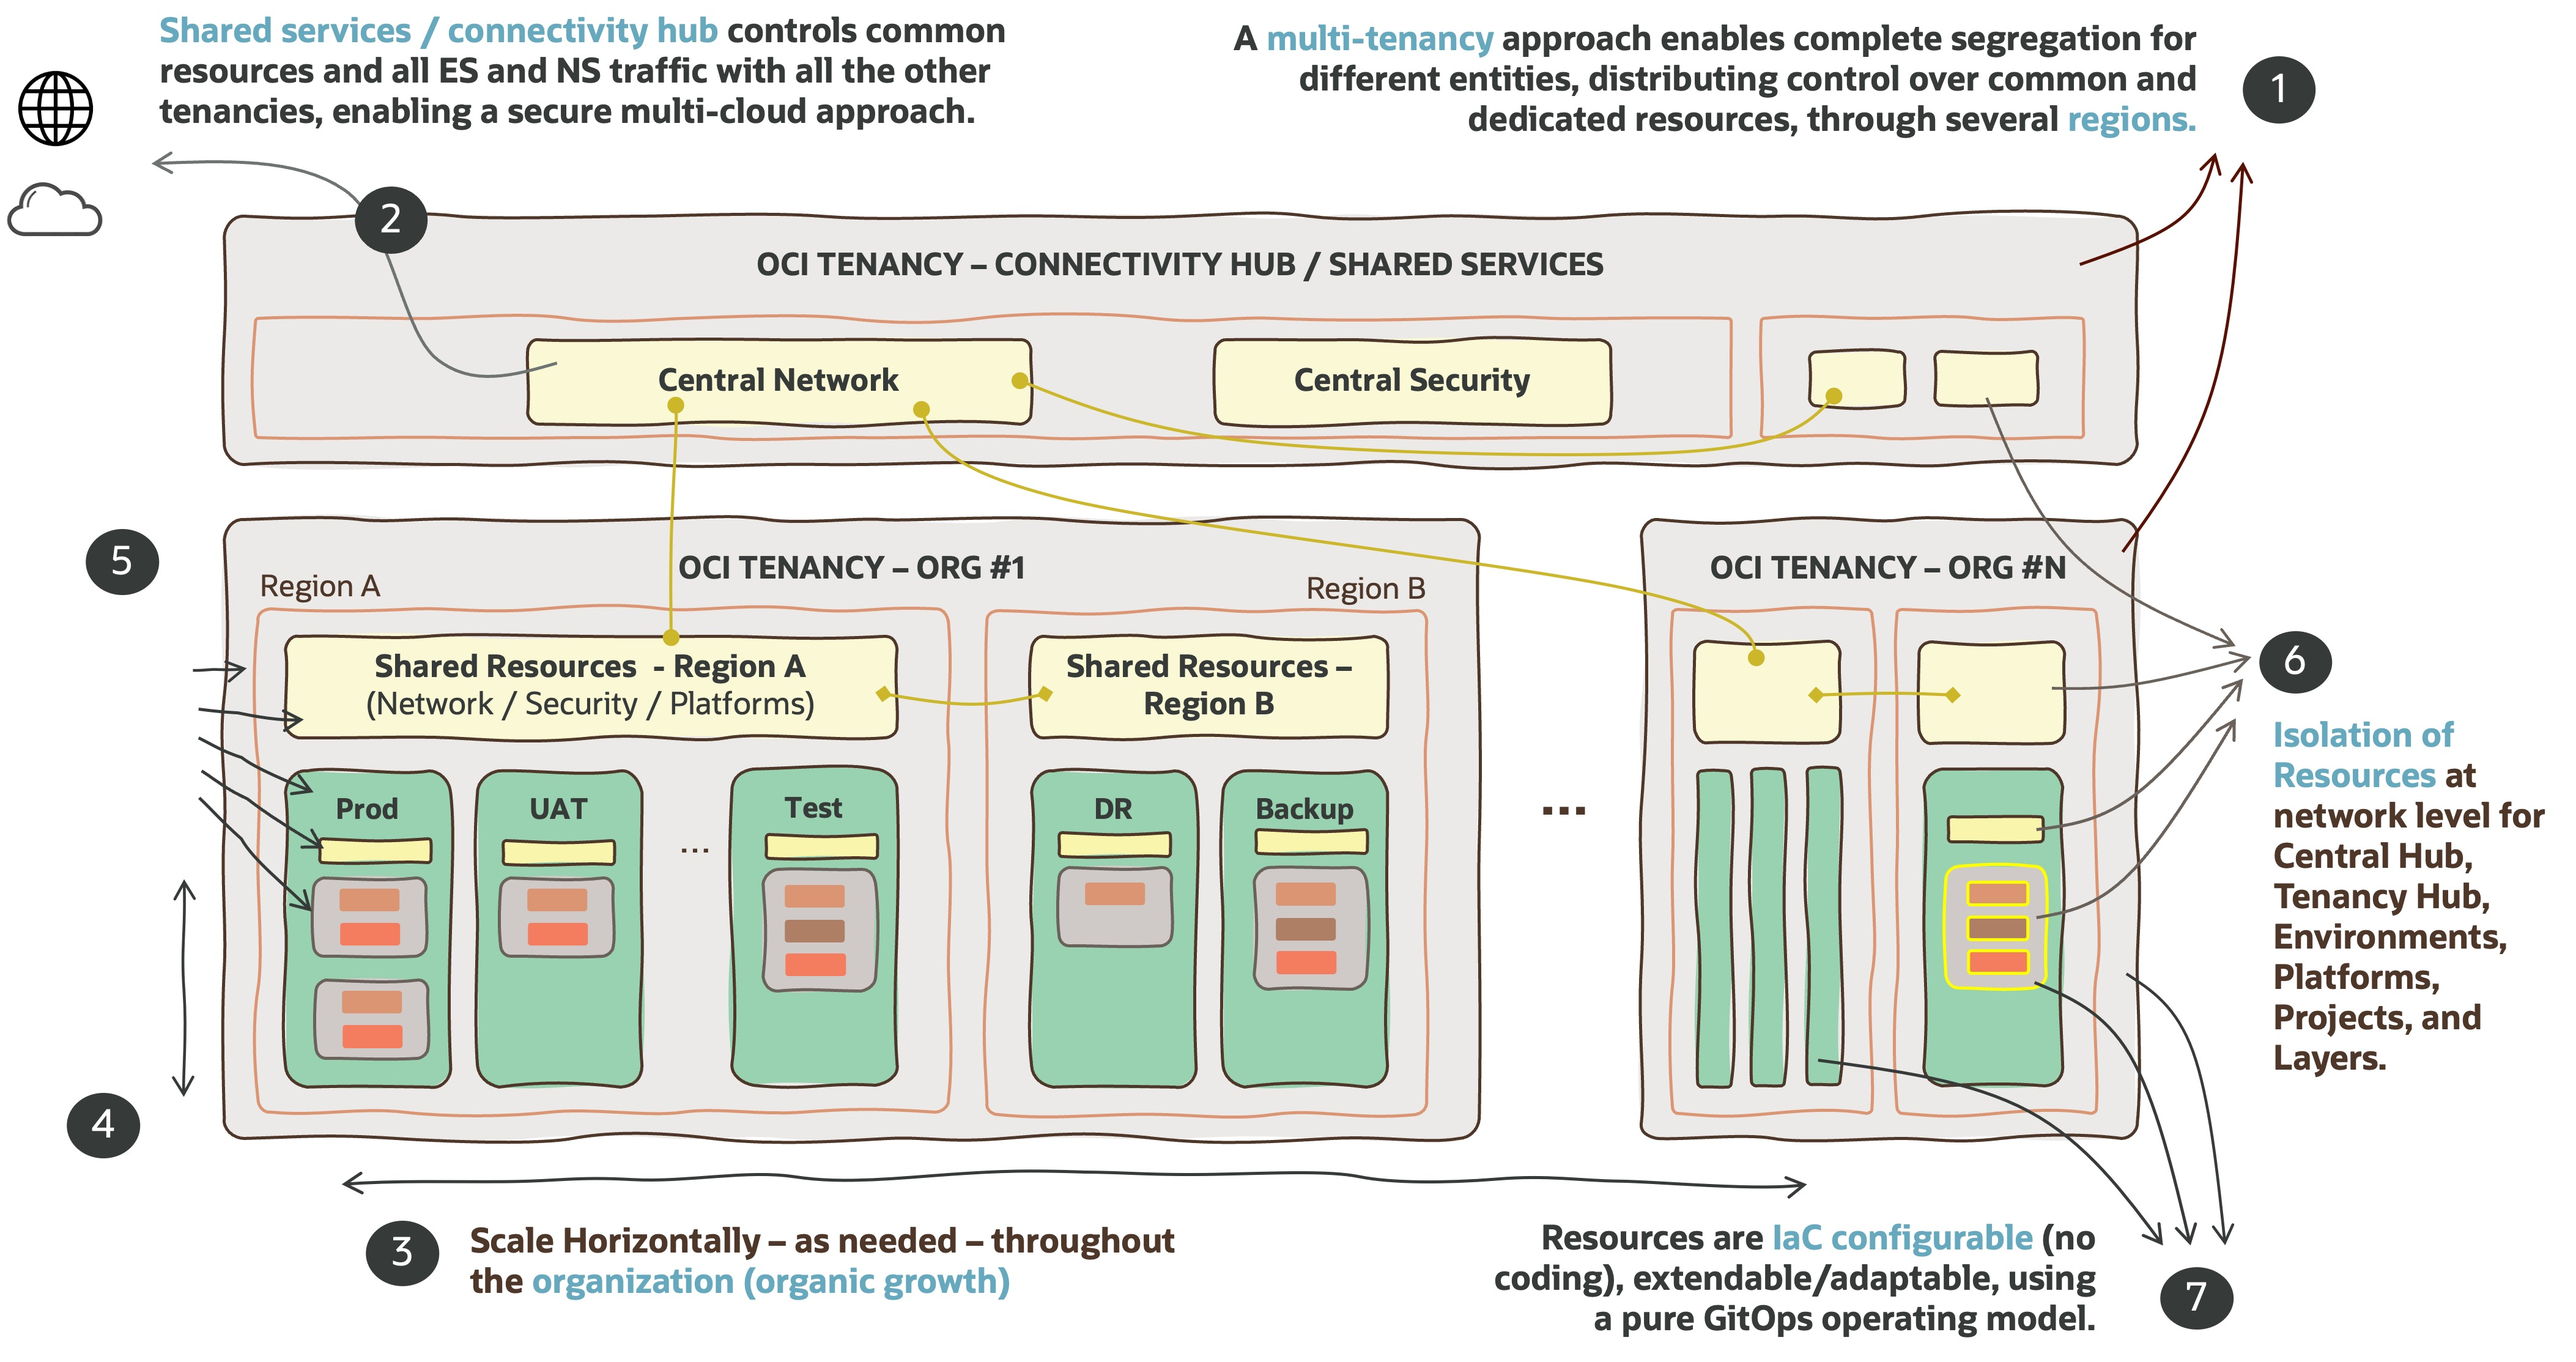
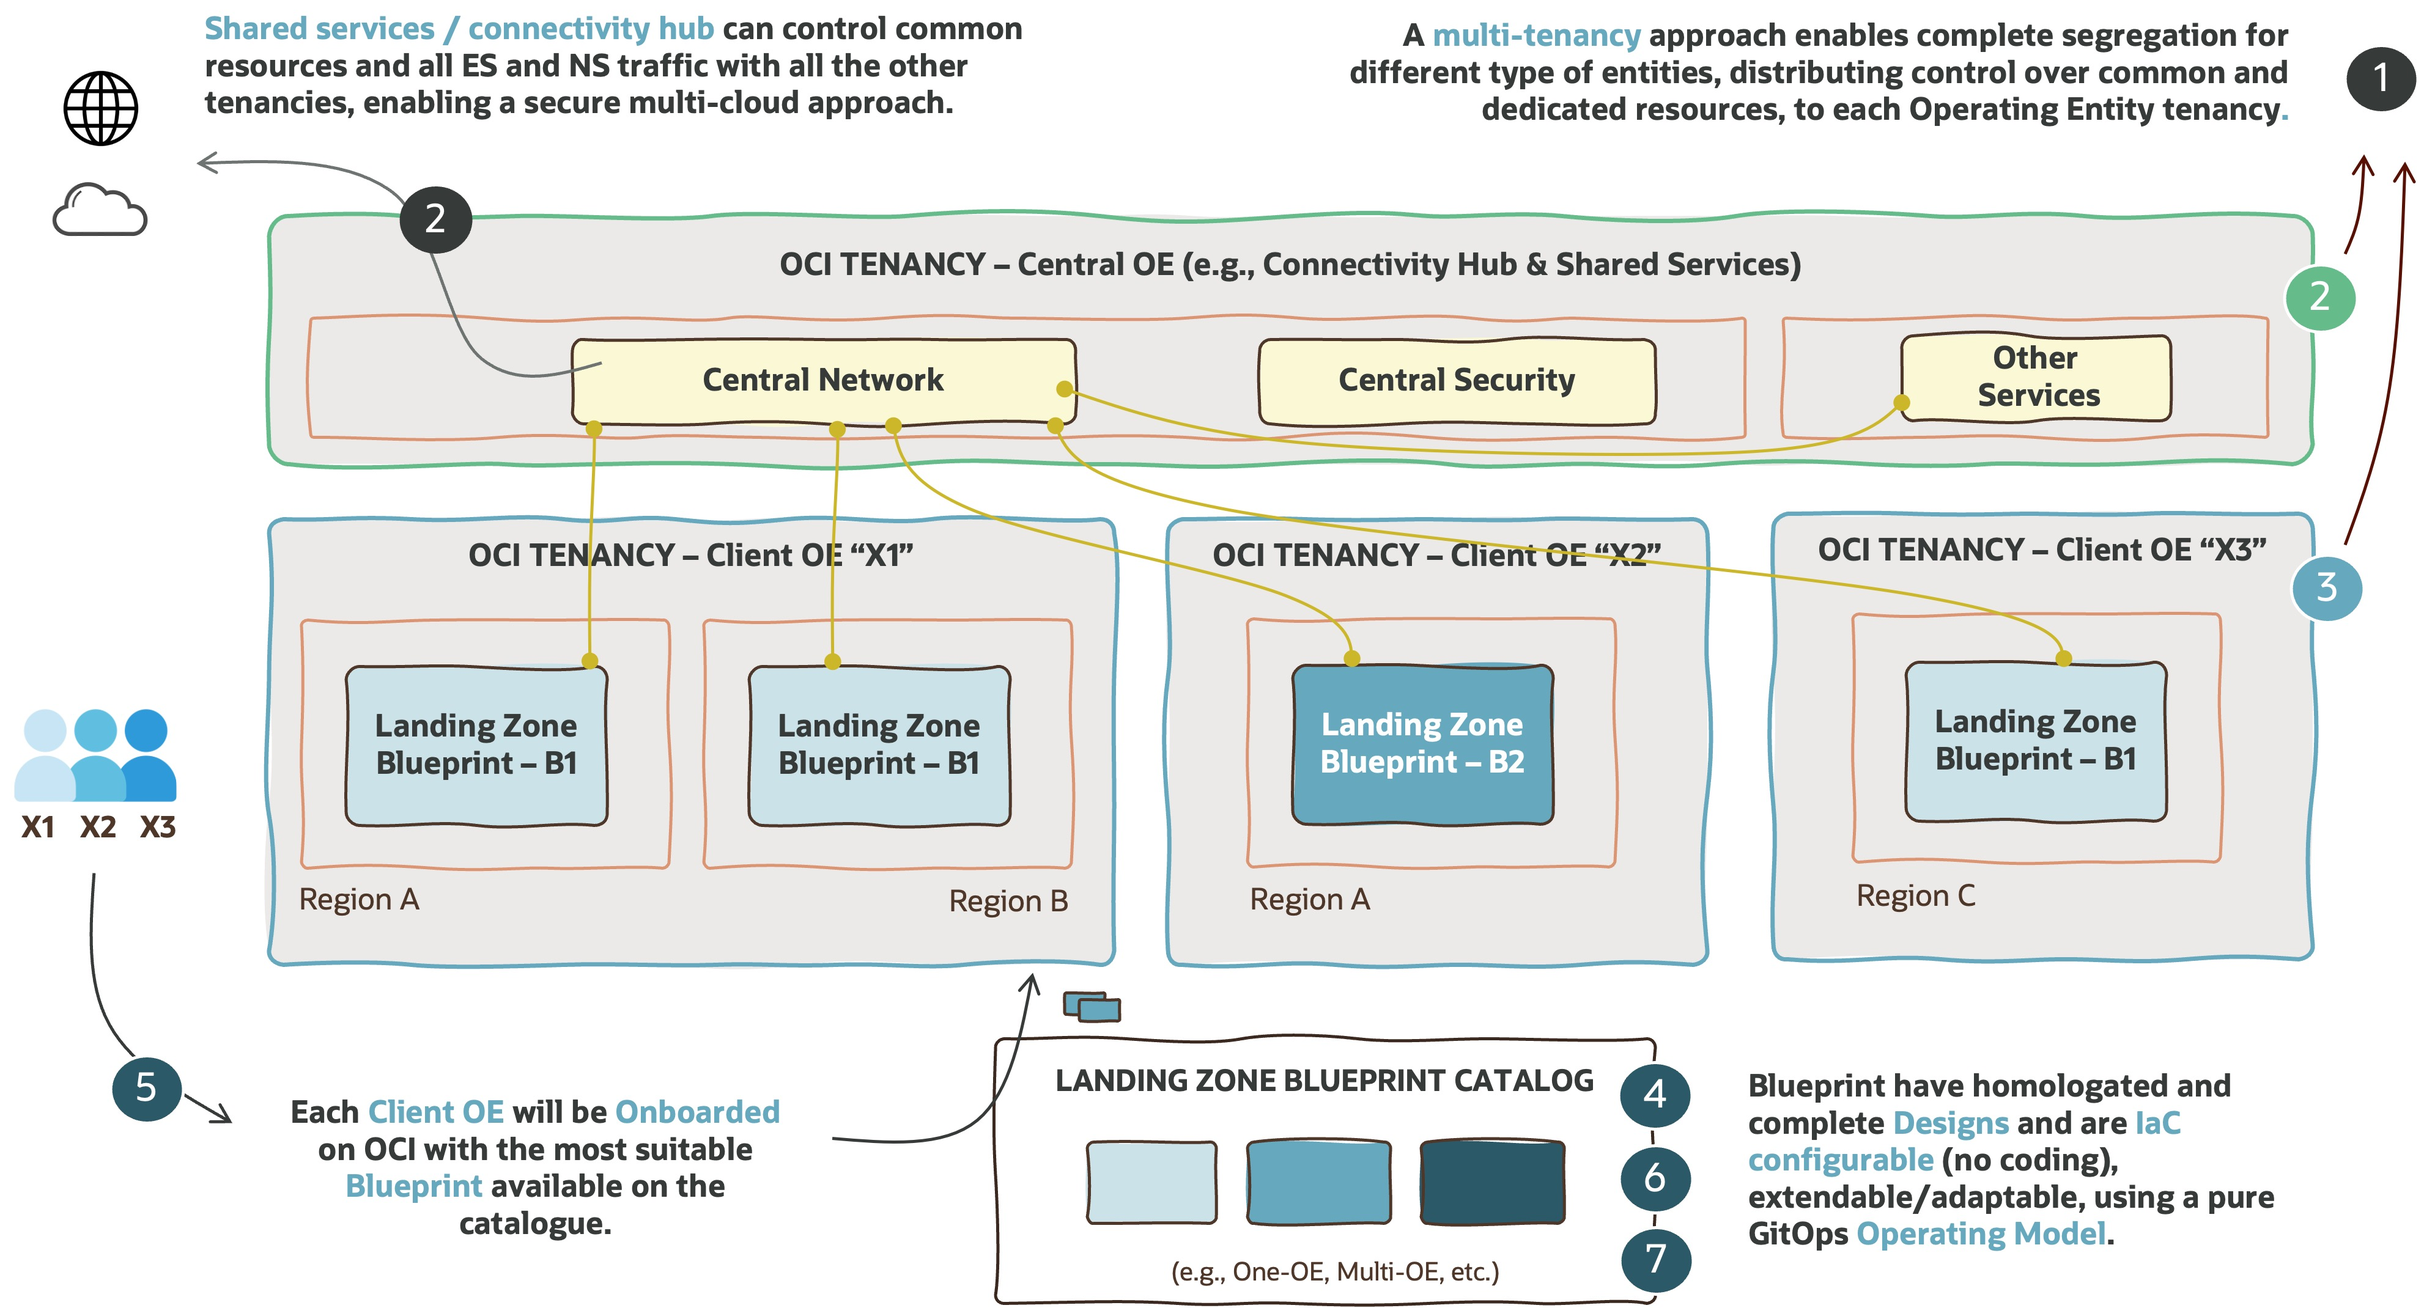
draft md update

diff --git a/blueprints/multi-tenancy/design/readme.md b/blueprints/multi-tenancy/design/readme.md
@@ -1,6 +1,6 @@
 # **The OCI Open LZ &ndash; Multi-Tenancy [Blueprint](#)**
 
-### A Blueprint to Simplify the Onboarding of Organizations, Business Units, and Subsidiaries into OCI
+### A Blueprint to Simplify the Onboarding of All Your Organizations, Business Units, and Subsidiaries into OCI
 
 &nbsp; 
 
@@ -47,16 +47,17 @@ The OCI Multi-Tenancy Landing Zone, is a secure cloud environment, designed with
 
 &nbsp; 
 
+&nbsp; 
+
 | # | CHARACTERISTICS| DESCRIPTION   | 
 |---|---|---|
-| 1 | **Two Entity Types** | There are two types of entities in this blueprint, the ones that provide central shared services to their customers and the customers themselves. The former is a Central Operating Entity (OE) and the latter are organization, customers, or partners OEs.
-| 2 | **Central Operating Entity**| This type of entity provides central shared services to all OEs customers and their tenancies. The Connectivity Hub (CH) is an example of this type of services, where all OEs can be connected to the CH, which will control network traffic in and out of OCI.
-| 3 | **Customer Operating Entities**| An Operating Entities is responsible for the operation of their Tenancy. Note that a customer in this case can be seen as a organization, brand, partner, LoB, Departments, etc. It's teams, and even their possible OE "customers" with their workloads, will be deplopyed and run in a standard and homologated landing zone blueprint.
-| 4 | **Blueprints Catalog** | This element provides a pre-defined set of Landing Zones Blueprints. Each OE can choose the most suitable blueprint available on a catalog of standard blueprints. In this case the One-OE or Multi-OE Blueprints are used, but on a customer scenario these options can be adjusted to any other Landing Zone blueprints. It is recommented that all tenancies follow a blueprint standard, but there might be some cases described below where this can be difficult to enforce.
-| 5 | **Tenancy Types** | There will be available several tenancy types for each Blueprint, such as centrally connected, unconnected, managed or unmanaged, which are flavours of blueprints in terms of security, network, and operations. At onboarding type, each Customer OE has to choose the Landing Zone Blueprint and its Tenancy Type.
-| 6 | **Secure Onboarding** | .
-| 7 | **Cloud Native Operating Model** | The Landing Zone blueprint can be operated with a complete GitOps operating model on day two, using control version repositories as the single source of truth for operations and code. The OCI Open LZ uses a 100% declarative Infrastructure as Code (IaC) approach, with IaC configurations on git-versioned repositories.
-| 8 | **Automation Patterns** | The Landing Zone blueprint has a set of operations scenarios for provisioning and changing resources, providing the building blocks to design and automate any other repeatable operations.
+| 1 | **Two Operating Entity Types** | There are two types of entities in this blueprint, the ones that provide central shared services to their clients and the clients themselves. The former is a Central Operating Entity (OE) which is nornally part of a central IT responsibility, while  the latter are organization, LoBs, brands, products, or partners teams that will use OCI with their tenancies.
+| 2 | **Central Operating Entity** | This type of entity provides central shared services to all OEs customers and their tenancies. A central OE is normally a central team that controls and governs the OCI Multi-Tenancy. Examples of these services can be the Connectivity Hub (CH), where all OEs tenancies can be connected to the CH, which will control network traffic in and out of OCI.
+| 3 | **Client Operating Entities**|  A client OE can be seen as a organization, brand, partner, LoB, Departments, etc. that will use OCI in the customer organization. Each Client OE will have its dedicated tenancy. Their teams, and even their possible internal "customers" with their workloads, will be onboard and run OCI in a standard and homologated landing zone blueprint.
+| 4 | **Blueprints Catalog** | This element provides a pre-defined and homologated set of Landing Zones Blueprints. Each Client OE can choose the most suitable blueprint available on a catalog of standard blueprints. In the Multi-Tenancy Blueprint the One-OE or Multi-OE Blueprints are used, but on a customer scenario these options can be adjusted to any other Landing Zone Blueprints. It is recommented that all tenancies follow a blueprint standard, to reduce governance and operational cost, and avoid unsecured tenancies that can pose a treath to the Multi-Tenancy construct. 
+| 5 | **Secure Onboarding** | This blueprint proposes a high-level workflow to guide the secure onboarding of each Client OE into OCI, from the tenancy activation to the landing zone creation.
+| 6 | **Cloud Native Operating Model** | The Landing Zone blueprint can be operated with a complete GitOps operating model on day two, using control version repositories as the single source of truth for operations and code. The OCI Open LZ uses a 100% declarative Infrastructure as Code (IaC) approach, with IaC configurations on git-versioned repositories.
+| 7 | **Automation Patterns** | The Landing Zone blueprint has a set of operations scenarios for provisioning and changing resources, providing the building blocks to design and automate any other repeatable operations.
 
 &nbsp; 
 
@@ -83,7 +84,26 @@ Before proceeding, it’s highly recommended OCI foundational knowledge of its c
 
 # **2. Functional View**
 
-This chapter will be added soon.
+## 2.1 User Stories
+
+&nbsp; 
+
+## 2.2 Blueprint Catalogue
+
+
+ **Tenancy Types**: As part of the Blueprints Catalog, there will be available several tenancy types flavors for each Blueprint, such as centrally connected, unconnected, managed or unmanaged, which are the same blueprints with minor design diferences in terms of security, network, and operations. At onboarding type, each Client OE has to choose the Landing Zone Blueprint and its Tenancy Type.
+
+&nbsp; 
+
+## 2.3 Tenancy Models
+
+&nbsp; 
+
+## 2.4 Secure Onboarding
+
+&nbsp; 
+
+## 2.6 DRCC & Alloy
 
 &nbsp; 
 &nbsp; 
